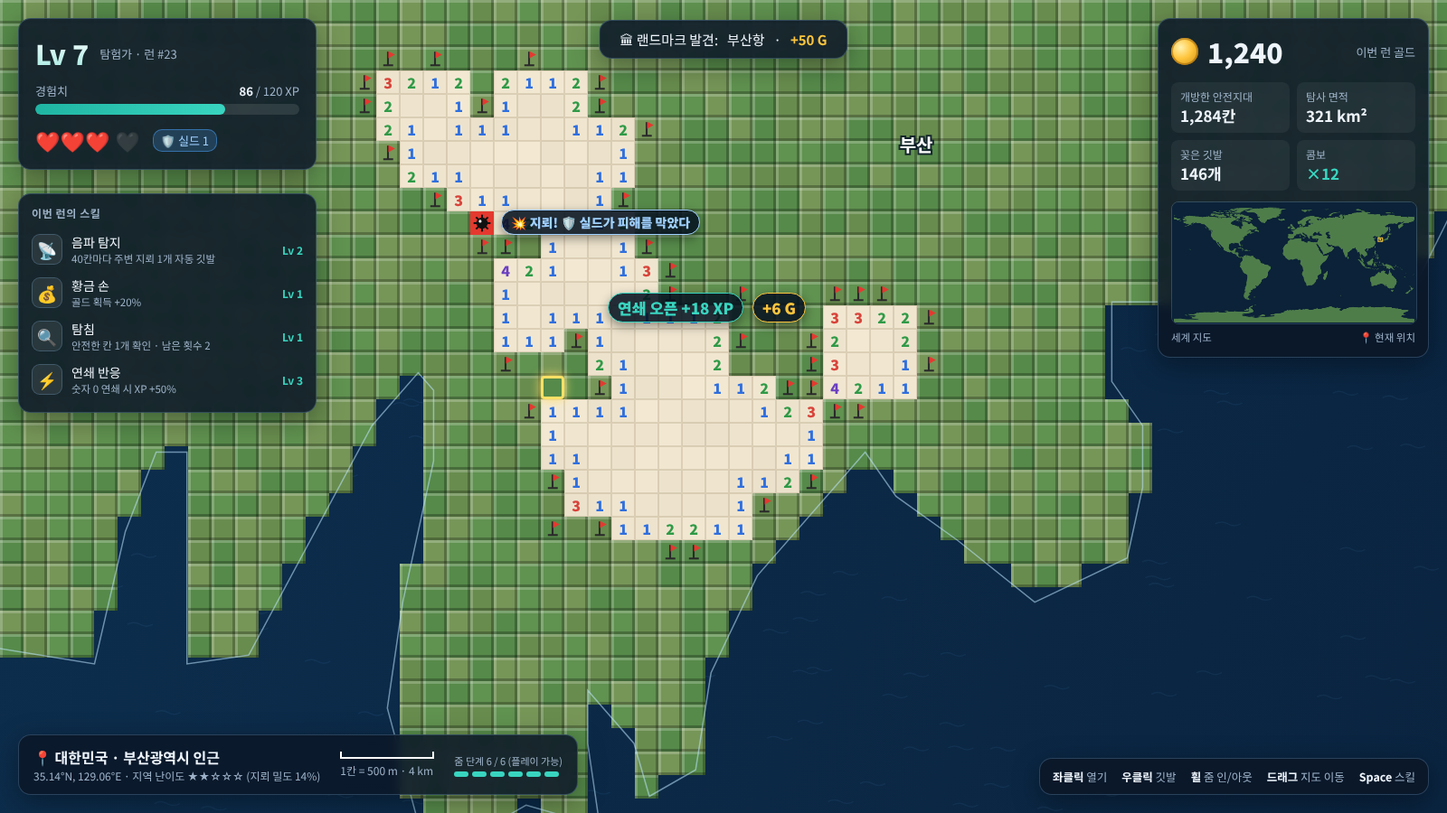
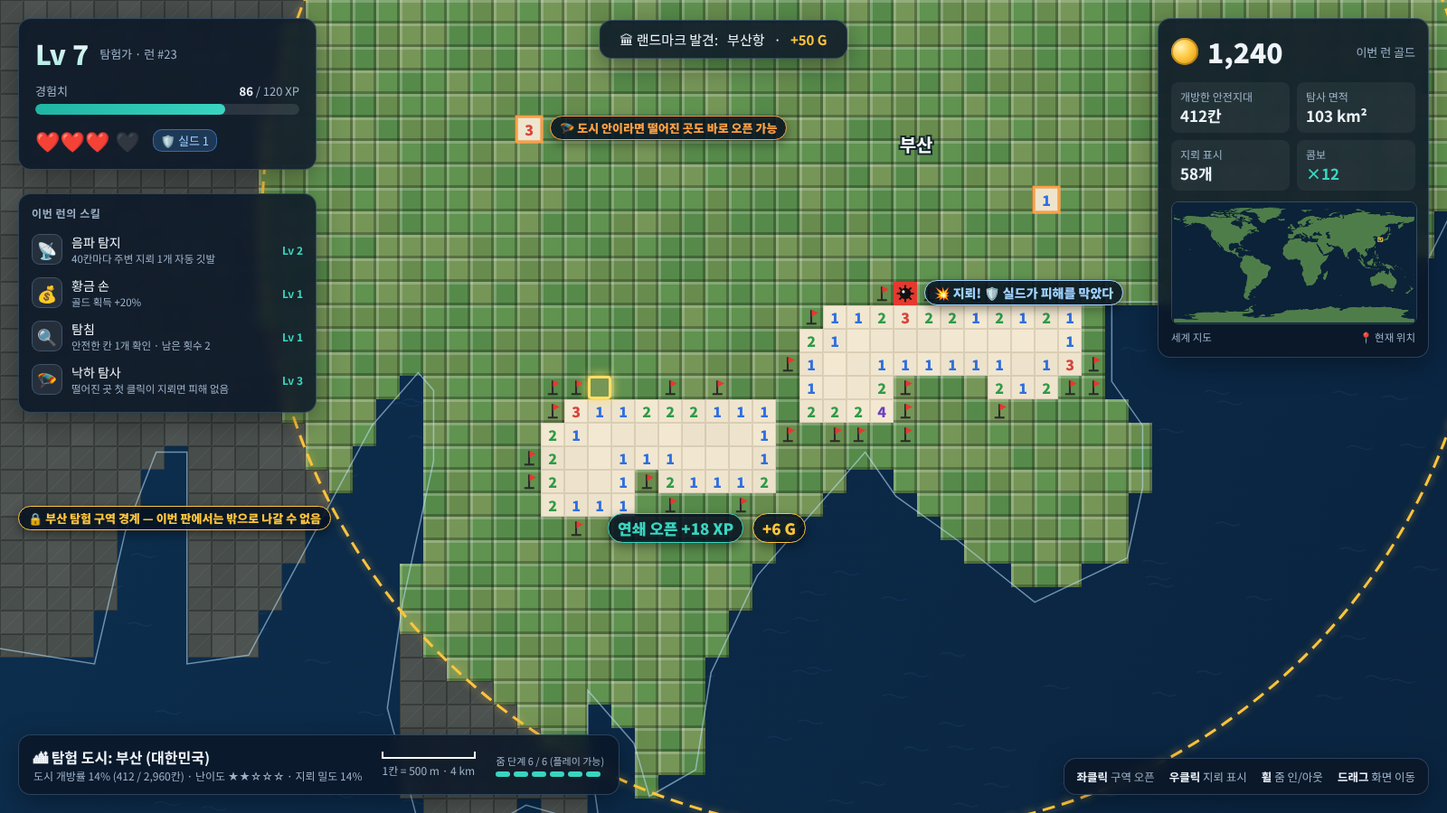
Update World Minesweeper plan to v2 with confirmed decisions
- City-locked runs: pick any city worldwide, play only inside its
  boundary, click anywhere within it (sea is no longer a barrier)
- Death keeps 50% gold; offline-only (no ranking/account server)
- Finalize PC (left open, right flag, wheel zoom, drag pan) and mobile
  (tap open, long-press flag, pinch zoom, swipe pan) controls
- Fix mines per city at first click; zone-based density replaces
  run-time danger escalation; add city conquest end condition
- Redraw mockups with city boundary, new control hints, city picker

Claude-Session: https://claude.ai/code/session_01Bgk4R3MHgPdhvjMk89ZM8V

diff --git a/minesweeper-world/PLAN.md b/minesweeper-world/PLAN.md
@@ -1,7 +1,17 @@
-# 월드 마인스위퍼 (가제) — 게임 기획안
+# 월드 마인스위퍼 (가제) — 게임 기획안 v2
 
-> 실제 세계지도를 500m 격자로 나눈 지뢰밭을 탐험하는 로그라이트 지뢰찾기 웹게임
-> PC(마우스) · 모바일(터치) 동시 지원
+> 실제 세계지도를 500m 격자로 나눈 지뢰밭에서, 내가 고른 도시 하나를 탐험하는 로그라이트 지뢰찾기 웹게임
+> PC(마우스) · 모바일(터치) 동시 지원 · 오프라인 전용
+
+### v2 확정 사항
+| # | 항목 | 결정 |
+|---|---|---|
+| 1 | 바다 | **건널 수 있음** — 도시 경계 안이라면 섬·건너편 해안도 바로 클릭 가능 |
+| 2 | 사망 시 골드 | **50% 보존** |
+| 3 | 서버 | **오프라인 전용** (랭킹·계정 서버 없음) |
+| 4 | 출발지 | **세계 어느 도시든 선택**. 한 번 시작하면 다른 도시로 넘어갈 수 없고, **같은 도시 안에서는 어디든 클릭 가능** |
+| 5 | PC 조작 | 왼쪽 클릭 = 구역 오픈, 오른쪽 클릭 = 지뢰 표시, 휠 = 줌 인/아웃, 드래그 = 화면 이동 |
+| 6 | 모바일 조작 | 짧게 탭 = 구역 오픈, 길게 누르기 = 지뢰 표시, 두 손가락 벌리기/좁히기 = 줌 인/아웃, 스와이프 = 화면 이동 |
 
 ---
 
@@ -10,19 +20,20 @@
 | 항목 | 내용 |
 |---|---|
 | 장르 | 지뢰찾기 + 로그라이트 (뱀파이어 서바이버류 성장 구조) |
-| 플랫폼 | 웹 브라우저 (PC / 모바일), PWA로 홈 화면 설치 가능 |
-| 맵 | 실제 세계지도. 육지 = 지뢰밭, 바다 = 이동 불가 지역 |
+| 플랫폼 | 웹 브라우저 (PC / 모바일), PWA로 홈 화면 설치 · 오프라인 실행 |
+| 맵 | 실제 세계지도. 육지 = 지뢰밭, 바다 = 열 수 없는 빈 공간 |
+| 플레이 범위 | 한 판(런) = **도시 하나**. 도시 경계 밖으로는 나갈 수 없음 |
 | 1칸 크기 | 약 500m × 500m (1칸 = 0.25km²) |
-| 한 판(런) 길이 | 15~30분 목표, 중간 저장 후 이어하기 가능 |
+| 한 판 길이 | 15~30분 목표, 자동 저장 후 이어하기 가능 |
 | 핵심 재미 | ① 지뢰찾기 추론 ② 레벨업마다 3지선다 스킬 빌드 ③ 골드로 영구 성장 ④ "우리 동네를 지도에서 직접 열어본다"는 탐험감 |
 
 ### 핵심 루프
 
 ```
-[상점/본부] → 출발 지역 선택 → [런 시작]
-   → 칸 열기 → 경험치(XP)·골드 획득 → 레벨업 → 스킬 3개 중 1개 선택 (이번 런 한정)
-   → 위험도 상승 (지뢰 밀도·특수 지뢰 증가)
-   → 귀환 성공 or HP 0 → [결과 정산] → 골드로 영구 업그레이드 → 다시 출발
+[본부/상점] → 세계지도에서 탐험할 도시 선택 → [런 시작]
+   → 도시 안 어디든 클릭해서 칸 열기 → 경험치(XP)·골드 획득
+   → 레벨업 → 스킬 3개 중 1개 선택 (이번 런 한정)
+   → 귀환 / 도시 정복 / HP 0 → [결과 정산] → 골드로 영구 업그레이드 → 다음 도시 선택
 ```
 
 ---
@@ -30,63 +41,86 @@
 ## 2. 맵 & 지뢰 규칙
 
 ### 2-1. 세계지도 격자
-- **실제 해안선 데이터**(Natural Earth / OpenStreetMap)를 500m 격자로 변환해 육지 칸만 플레이 영역으로 사용.
-- 격자는 웹 메르카토르 기반 정사각 격자. **기준 위도 35°(한국 부근)에서 정확히 500m**가 되도록 정의.
+- **실제 해안선 데이터**(Natural Earth 1:10m)를 500m 격자로 바꿔 육지 칸만 플레이 영역으로 사용.
+- 격자는 웹 메르카토르 기반 정사각 격자. **위도 35°(한국 부근)에서 정확히 500m**가 되도록 정의.
   - 적도 쪽은 칸이 약간 크고(≈610m), 북유럽 쪽은 작아짐(≈330m). "대략 500m" 감각을 유지하면서 구현이 가장 단순한 방식.
-- 육지 전체는 약 **6억~10억 칸** 규모(남극 제외) → 미리 만들지 않고 **화면에 보이는 청크만 그때그때 생성**.
 
-### 2-2. 지뢰 규칙
-- 기본 규칙은 고전 지뢰찾기와 동일: 숫자 = 주변 8칸의 지뢰 수, 0이면 주변 자동 연쇄 오픈.
-- 바다 칸은 지뢰 없음 & 열 수 없음 (숫자 계산 시 0으로 취급). 해안선이 자연스러운 맵 경계가 됨.
-- 지뢰 배치는 `(시드, x, y)` 해시로 결정 → 같은 시드면 전 세계 어디서나 같은 지뢰 배치 (일일 도전/랭킹에 활용).
-- **첫 클릭 안전**: 출발 지점 주변 3×3(영구 업그레이드로 5×5까지)은 지뢰 없음 보장.
-- 섬 이동: 바다를 건너려면 **항구·다리 랜드마크**를 열거나 스킬 "다리 건설"이 필요.
+### 2-2. 탐험 도시 규칙 ★
+- **도시 선택**: 시작 화면의 세계지도에서 고르거나 이름으로 검색 (예: 서울, Tokyo, Paris). 인구 1.5만 명 이상 도시 약 2.6만 곳을 내장.
+- **도시 경계**:
+  - MVP: 도시 중심에서 일정 반경(인구 규모별 8~20km) 안의 육지.
+  - 이후: 실제 행정구역 경계(예: 부산광역시 경계)로 교체.
+- **이동 제한**: 한 번 출발하면 그 도시에 고정. 경계 밖 칸은 회색으로 잠겨 있고 클릭할 수 없음.
+- **자유 클릭**: 경계 안이라면 이미 연 영역과 붙어 있지 않은 칸도 **어디든 바로 열 수 있음**.
+  - 단, 아무 정보 없이 떨어진 곳을 여는 것은 "찍기"라 지뢰 밀도만큼 위험 → 스킬 "🪂 낙하 탐사"로 보완.
+- **바다 건너기**: 바다 칸은 열 수 없는 빈 공간일 뿐 장벽이 아님. 경계 안의 섬(예: 부산 가덕도, 영도)이나 만 건너편 해안도 바로 클릭할 수 있음. 항구·다리 같은 별도 이동 수단은 필요 없음.
+- **도시 규모 예시**: 부산(반경 13km)은 육지 약 2,960칸. 큰 도시일수록 칸이 많아 오래 플레이할 수 있고, 클리어 보상도 큼.
 
-### 2-3. 지역 난이도
-- 지역마다 기본 지뢰 밀도가 다름 (예: 해안 도시 12~14%, 사막 18%, 험준한 산악 20%).
-- MVP는 노이즈 기반으로 난이도를 배정하고, 이후 실제 지형/토지피복 데이터로 교체.
+### 2-3. 지뢰 규칙
+- 기본 규칙은 고전 지뢰찾기와 같음. 숫자는 주변 8칸의 지뢰 수이고, 0이면 주변이 자동으로 연쇄 오픈됨.
+- 바다 칸과 경계 밖 칸에는 지뢰가 없고, 숫자 계산에서 0으로 취급.
+- **배치 시점**: 런의 첫 클릭 직후 도시 전체에 한 번에 배치. 시드 기반이라 같은 시드면 같은 배치.
+- **첫 클릭 안전**: 첫 클릭 지점 주변 3×3은 지뢰 없음 보장 (영구 업그레이드로 5×5까지).
 
-### 2-4. 런 진행에 따른 위험도 상승
-열린 칸 수에 따라 단계적으로 어려워져 런이 무한히 늘어지지 않게 함.
+### 2-4. 구역 난이도
+도시 안에서도 구역마다 지뢰 밀도가 다르다. 판이 고정되어 있으므로 밀도는 처음 배치할 때 정해진다.
 
-| 위험 단계 | 조건(개방 칸) | 변화 |
-|---|---|---|
-| 1 | 0~800 | 기본 밀도 |
-| 2 | 800~2,000 | 밀도 +2%p |
-| 3 | 2,000~3,500 | 밀도 +4%p, **대전차 지뢰**(밟으면 HP -2) 등장 |
-| 4 | 3,500+ | 밀도 +6%p, **재머 지뢰**(주변 숫자를 `?`로 가림) 등장 |
+| 구역 | 판정 기준 (MVP) | 지뢰 밀도 | 특수 지뢰 |
+|---|---|---|---|
+| 도심 | 도시 중심에서 반경 30% 이내 | 12% | — |
+| 시가지 | 30~70% | 15% | 대전차 지뢰 소수 |
+| 외곽 | 70% 이상 | 18% | 대전차 지뢰, 재머 지뢰 |
+
+- 도시 전체 기본 난이도(★1~5)를 이 표에 더한다. 예: 사막·산악 도시는 +2~4%p.
+- 대전차 지뢰는 밟으면 HP -2.
+- 재머 지뢰는 주변 숫자를 `?`로 가린다.
 
 ### 2-5. 특수 칸
 | 칸 | 효과 |
 |---|---|
 | 💰 보물 상자 | 열면 골드 대량 획득 |
 | 🏛 랜드마크 | 실제 지명(예: 부산항, 광안대교). 첫 발견 시 골드·XP 보너스 |
-| ✈ 귀환 포인트 | 공항·항구 랜드마크. 여기서 **귀환**하면 런 종료 + 골드 100% 보존 |
+| ✈ 귀환 포인트 | 공항·항구·기차역 칸. 이 칸이 열려 있으면 언제든 **귀환** 가능 |
 | ❤ 구급 상자 | HP 1 회복 (드물게 등장) |
 
 ---
 
-## 3. 조작 (PC / 모바일)
+## 3. 조작
 
-| 동작 | PC | 모바일 |
+### 3-1. PC (마우스)
+| 동작 | 입력 |
+|---|---|
+| 구역 오픈 | **왼쪽 클릭** |
+| 지뢰 표시 / 해제 | **오른쪽 클릭** (깃발 토글, 브라우저 우클릭 메뉴는 막음) |
+| 줌 인 / 줌 아웃 | **마우스 휠** (커서 위치 기준으로 확대·축소) |
+| 화면 이동 | **드래그** |
+| 스킬 사용 | 화면의 스킬 버튼 클릭 |
+| 보조: 주변 일괄 오픈 | 열린 숫자 칸을 왼쪽 클릭하면, 주변 지뢰 표시 수가 숫자와 같을 때 나머지 주변 칸을 한 번에 오픈 (설정에서 끌 수 있음) |
+
+- 클릭과 드래그 구분: 버튼을 누른 채 5px 이상 움직이면 드래그로 보고, 놓아도 칸을 열지 않음.
+
+### 3-2. 모바일 (터치)
+| 동작 | 입력 |
+|---|---|
+| 구역 오픈 | **짧게 탭** |
+| 지뢰 표시 / 해제 | **길게 누르기** (약 0.4초, 진동 피드백) |
+| 줌 인 / 줌 아웃 | **두 손가락 벌리기 / 좁히기** (핀치) |
+| 화면 이동 | **한 손가락 스와이프** |
+| 스킬 사용 | 하단 스킬 버튼 탭 |
+
+- 오조작 방지 규칙:
+  - 손가락이 10px 이상 움직이면 스와이프로 판정하고 칸을 열지 않음.
+  - 두 번째 손가락이 닿는 순간 진행 중이던 탭·길게 누르기를 취소.
+  - 칸이 너무 작게 보이는 배율(28px 미만)에서 탭하면 칸을 열지 않고 그 지점으로 확대.
+
+### 3-3. 줌 단계
+도시에 고정되므로 세계·국가 단위 줌은 도시 선택 화면에서만 쓴다.
+
+| 단계 | 칸 크기 | 표시 |
 |---|---|---|
-| 칸 열기 | 좌클릭 | 탭 (열기 모드) |
-| 깃발 | 우클릭 | 롱프레스(진동 피드백) 또는 하단 "깃발 모드" 토글 후 탭 |
-| 주변 일괄 열기(코드) | 숫자 칸 좌클릭 / 휠 클릭 | 숫자 칸 더블탭 |
-| 줌 인/아웃 | **마우스 휠** (커서 위치 기준) | 핀치 줌 |
-| 지도 이동 | 드래그, WASD/방향키 | 한 손가락 드래그 |
-| 액티브 스킬 | 1~4 / Space | 하단 스킬 버튼 |
-
-### 줌 단계 (LOD)
-| 단계 | 화면 범위 | 표시 |
-|---|---|---|
-| 1 세계 | 전 세계 | 대륙, 내 탐사 흔적(히트맵) |
-| 2 국가 | ~2,000km | 국경, 출발 가능 지역 |
-| 3 지역 | ~200km | 열린 영역이 색 덩어리로 표시 |
-| 4 도시 | ~50km | 칸 경계 표시, 숫자 숨김 |
-| 5~6 플레이 | ~10~30km | 숫자·깃발 표시, **이 단계에서만 칸 조작 가능** |
-
-- 모바일은 오조작 방지를 위해 플레이 단계에서 칸이 최소 28px 이상일 때만 입력 허용.
+| 1 도시 전체 | 1~4px | 도시 경계 전체, 열린 영역 색 표시, 랜드마크 아이콘 |
+| 2 구역 | 5~19px | 칸 경계 표시, 숫자 숨김 |
+| 3~4 플레이 | 20px 이상 (모바일 28px 이상) | 숫자·지뢰 표시, **이 단계에서 칸 조작**. 화면 폭은 PC 약 30km, 모바일 약 7km |
 
 ---
 
@@ -97,42 +131,43 @@
 |---|---|
 | 직접 클릭으로 연 안전 칸 | 2 |
 | 연쇄(0)로 자동으로 열린 칸 | 0.5 |
-| 지뢰 위 깃발이 정답으로 확정됨 | 1 |
+| 지뢰 표시가 정답으로 확정됨 | 1 |
 | 랜드마크 발견 | 20 |
 
-- 필요 XP: `30 + 15 × (현재 레벨 − 1)` → Lv1→2: 30, Lv7→8: 120, Lv14→15: 225
-- 대략 **안전지대 20~60칸마다 1레벨** 체감, 한 런에서 Lv 12~18 도달 목표.
+- 필요 XP는 `30 + 15 × (현재 레벨 − 1)`. Lv1→2는 30, Lv7→8은 120, Lv14→15는 225.
+- 대략 **안전지대 20~60칸마다 1레벨** 체감. 한 런에서 Lv 12~18 도달이 목표.
 
 ### 4-2. 레벨업 화면
 - 게임이 일시정지되고 **카드 3장 중 1장 선택**.
 - 카드 등급: 일반(회색) / 레어(파랑) / 에픽(보라) / 전설(금색).
-- **다시 뽑기**(기본 1회, 영구 업그레이드로 증가), **건너뛰기**(골드 소량 획득).
-- 스킬은 최대 5레벨. 한 런에서 보유 가능한 스킬은 최대 6개.
+- **다시 뽑기**는 기본 1회이고 영구 업그레이드로 늘어남. **건너뛰기**를 하면 골드를 조금 받음.
+- 스킬은 최대 5레벨. 한 런에서 최대 6개까지 보유.
 
 ### 4-3. 스킬 목록 (초안)
 | 분류 | 스킬 | 효과 (Lv1 → Max) |
 |---|---|---|
-| 탐지 | 📡 음파 탐지 | 안전 칸 40칸 → 20칸 열 때마다 근처 지뢰 1개 자동 깃발 |
-| 탐지 | 🔍 탐침 | 선택한 칸이 안전한지 확인 (사용 횟수 2 → 6, 레벨업 시 충전) |
-| 탐지 | 🧲 금속 탐지기 | 커서 주변 3×3의 지뢰 수 표시 (액티브, 쿨다운) |
+| 탐지 | 📡 음파 탐지 | 안전 칸을 40칸 → 20칸 열 때마다 근처 지뢰 1개에 자동으로 지뢰 표시 |
+| 탐지 | 🔍 탐침 | 고른 칸이 안전한지 확인 (사용 횟수 2 → 6, 레벨업 시 충전) |
+| 탐지 | 🧲 금속 탐지기 | 지정한 지점 주변 3×3의 지뢰 수 표시 (쿨다운 있음) |
 | 탐지 | 🛰 항공 사진 | 반경 10칸의 지뢰 밀도를 히트맵으로 표시 |
-| 탐지 | 🚁 정찰 드론 | 100칸마다 미개방 지역의 안전 칸 1~3개 자동 오픈 |
+| 탐지 | 🚁 정찰 드론 | 100칸마다 아직 안 연 지역의 안전 칸 1~3개 자동 오픈 |
 | 생존 | 🛡 방탄 조끼 | 실드 +1 (지뢰 피해 1회 무효), 150칸마다 재충전 |
 | 생존 | ❤ 강철 체력 | 최대 HP +1, 즉시 1 회복 |
 | 생존 | 🩹 응급 처치 | 레벨업 시 HP 회복 확률 20% → 60% |
 | 생존 | 🧯 불발탄 | 지뢰를 밟아도 10% → 30% 확률로 불발 |
+| 생존 | 🪂 **낙하 탐사** | 열린 영역과 떨어진 칸을 처음 열 때 지뢰면 피해 없이 지뢰 표시로 바뀜 (쿨다운 100칸 → 40칸) |
 | 경제 | 💰 황금 손 | 골드 획득 +20% → +80% |
-| 경제 | 🗝 보물 사냥꾼 | 화면 안 보물 상자 방향 표시, 상자 골드 +50% |
-| 경제 | 🔧 지뢰 해체반 | 정답 깃발 1개당 골드 +1 → +3 |
+| 경제 | 🗝 보물 사냥꾼 | 보물 상자 방향 표시, 상자 골드 +50% |
+| 경제 | 🔧 지뢰 해체반 | 정답 지뢰 표시 1개당 골드 +1 → +3 |
 | 성장 | 📘 빠른 학습 | XP +15% → +60% |
 | 성장 | ⚡ 연쇄 반응 | 연쇄 오픈 칸 XP 0.5 → 1.5 |
 | 성장 | 🍀 행운 | 레어 이상 카드 등장 확률 증가 |
-| 이동 | 🌉 다리 건설 | 바다 1~3칸 너머의 육지로 진입 가능 |
 
-**진화 (뱀서식 조합)** — 두 스킬을 모두 Max로 만들면 레벨업 카드에 진화형이 등장
-- 음파 탐지 + 항공 사진 → **🌍 위성 스캔**: 300칸마다 화면 안 지뢰의 30%를 공개
-- 방탄 조끼 + 불발탄 → **🦾 폭발물 처리 슈트**: 실드가 있는 동안 지뢰를 밟으면 해체 처리 + 골드 획득
-- 황금 손 + 보물 사냥꾼 → **👑 미다스**: 숫자 0 칸에서 동전이 나옴
+**진화 (뱀서식 조합)** — 두 스킬을 모두 최대 레벨로 만들면 레벨업 카드에 진화형이 등장한다.
+- 음파 탐지 + 항공 사진 → **🌍 위성 스캔**: 300칸마다 화면 안 지뢰의 30% 공개
+- 방탄 조끼 + 불발탄 → **🦾 폭발물 처리 슈트**: 실드가 있을 때 지뢰를 밟으면 해체 처리 + 골드 획득
+- 낙하 탐사 + 정찰 드론 → **🪖 공수 부대**: 떨어진 곳 첫 오픈 시 주변 3×3 중 안전 칸 자동 오픈
+- 황금 손 + 보물 사냥꾼 → **👑 미다스**: 숫자 0 칸에서 동전 등장
 
 ---
 
@@ -144,21 +179,22 @@
 | 안전 칸 오픈 | 칸당 확률적으로 1~3G |
 | 보물 상자 | 30~150G |
 | 랜드마크 첫 발견 | 50G |
-| 깃발 정확도 보너스 (런 종료 시) | 정확도 90% 이상이면 정답 깃발 수 × 0.5G |
-| 새 국가 첫 진입 | 500G (계정당 1회) |
-| 일일 도전 순위 보상 | 순위별 |
+| 지뢰 표시 정확도 보너스 (런 종료 시) | 정확도 90% 이상이면 정답 표시 수 × 0.5G |
+| 새 국가 첫 탐험 | 500G (나라별 1회) |
+| 오늘의 도시 최고 기록 갱신 | 200G |
 
 ### 5-2. 런 종료 조건
 | 종료 방식 | 조건 | 골드 보존율 |
 |---|---|---|
-| ✈ **귀환** | 귀환 포인트(공항·항구)에서 귀환 선택 | **100%** |
-| 💀 **사망** | HP 0 | 50% (영구 업그레이드 "보험"으로 최대 75%) |
+| ✈ **귀환** | 열려 있는 귀환 포인트에서 "귀환" 선택 | **100%** |
+| 🏆 **도시 정복** | 도시의 안전 칸을 모두 오픈 | **100% + 정복 보너스(도시 칸 수 × 0.3G)** |
+| 💀 **사망** | HP 0 | **50%** (영구 업그레이드 "보험"으로 최대 75%) |
 
-→ "더 깊이 들어가서 더 벌 것인가, 지금 귀환할 것인가"의 리스크/리워드 판단이 생김.
+→ "더 열어서 더 벌 것인가, 지금 귀환할 것인가"를 고민하게 만든다.
 
 ### 5-3. HP
-- 기본 HP 3. 지뢰를 밟으면 HP -1(대전차 지뢰는 -2), 실드가 있으면 실드가 먼저 소모.
-- 밟은 지뢰는 공개되고 자동으로 깃발 처리되어 게임은 계속 진행.
+- 기본 HP는 3. 지뢰를 밟으면 HP -1(대전차 지뢰는 -2)이고, 실드가 있으면 실드가 먼저 깎인다.
+- 밟은 지뢰는 공개되면서 자동으로 지뢰 표시가 되고, 게임은 그대로 계속된다.
 
 ---
 
@@ -171,21 +207,21 @@
 | 🛡 시작 실드 | 런 시작 시 실드 +1 | 3 | 900 → |
 | 💰 골드 감각 | 골드 획득 +10% | 10 | 250 → (×1.5씩 증가) |
 | 📘 빠른 학습 | XP +8% | 10 | 300 → |
-| 🎲 행운의 주사위 | 레벨업 리롤 +1 | 3 | 1,500 → |
+| 🎲 행운의 주사위 | 레벨업 다시 뽑기 +1 | 3 | 1,500 → |
 | 🎯 안전한 첫 발 | 첫 클릭 안전 범위 3×3 → 5×5 | 2 | 800 → |
 | 🔍 탐침 키트 | 시작 시 탐침 +1 | 4 | 1,100 → |
-| 🧳 보험 가입 | 사망 시 골드 보존 +5%p | 5 | 2,000 → |
+| 🧳 보험 가입 | 사망 시 골드 보존 +5%p (50% → 75%) | 5 | 2,000 → |
 
 ### 6-2. 해금
-- **스킬 해금**: 새 스킬을 레벨업 카드 풀에 추가 (처음엔 기본 8개만 등장).
+- **스킬 해금**: 새 스킬을 레벨업 카드 풀에 추가 (처음에는 기본 8개만 등장).
 - **4지선다**: 레벨업 카드 3장 → 4장 (고가, 탐험가 랭크 조건).
-- **출발 지역**: 부산(기본) → 도쿄 · 파리 · 카이로 · 뉴욕 … 지역마다 난이도·보상 배율·랜드마크가 다름.
-- (선택) 꾸미기: 깃발 디자인, 칸 스킨, 폭발 이펙트.
+- (선택) 꾸미기: 지뢰 표시 깃발 디자인, 칸 스킨, 폭발 이펙트.
+- 도시는 처음부터 전부 열려 있음 (해금 대상 아님).
 
-### 6-3. 메타 진행
-- **탐험가 랭크**: 누적 탐사 면적(km²)으로 상승, 상점 상위 항목 해금 조건.
-- **세계 탐사 도감**: 방문한 국가/랜드마크 수집 (예: 국가 3 / 195).
-- **일일 도전**: 전 세계 동일 시드·동일 지역에서 점수 경쟁.
+### 6-3. 메타 진행 (모두 기기 안에 저장)
+- **탐험가 랭크**: 누적 탐사 면적(km²)으로 오름. 상점 상위 항목의 해금 조건.
+- **세계 탐사 도감**: 탐험한 도시·국가·랜드마크 수집. 도시별 최고 개방률 기록.
+- **오늘의 도시**: 날짜로 정해지는 도시와 지뢰 배치. 서버 없이 내 최고 기록과 경쟁.
 
 ---
 
@@ -194,46 +230,47 @@
 | 화면 | 주요 요소 |
 |---|---|
 | 타이틀/본부 | 세계지도 배경, 시작 / 상점 / 도감 / 설정 |
-| 출발 지역 선택 | 세계지도에서 지역 선택, 난이도·보상 표시 |
-| 게임 플레이 | 지도 + 격자, 레벨·XP바, HP·실드, 골드, 보유 스킬, 미니맵, 현재 위치·축척, 줌 단계 |
-| 레벨업 | 카드 3장, 리롤, 건너뛰기 |
-| 결과 정산 | 탐사 경로 지도, 개방 칸·면적, 깃발 정확도, 골드 내역 |
-| 상점 | 탭(능력치/시작 장비/스킬 해금/출발 지역), 보유 골드 |
+| 도시 선택 | 세계지도 + 도시 검색, 도시 정보(면적·칸 수·난이도·내 최고 개방률) |
+| 게임 플레이 | 지도·격자·도시 경계선, 레벨·XP 바, HP·실드, 골드, 보유 스킬, 미니맵, 도시 개방률, 축척 |
+| 레벨업 | 카드 3장, 다시 뽑기, 건너뛰기 |
+| 결과 정산 | 탐사 지도, 개방 칸·면적·도시 개방률, 지뢰 표시 정확도, 골드 내역 |
+| 상점 | 탭(능력치 / 시작 장비 / 스킬 해금), 보유 골드, 다음 탐험 도시 |
 
 ### 게임 장면 예시
 
-**① PC 게임 플레이 화면 (부산 인근, 실제 해안선 데이터 기반)**
+**① PC 게임 플레이 — 부산 탐험 구역 (노란 점선 = 도시 경계, 밖의 회색 지역은 진입 불가, 주황 테두리 = 떨어진 곳을 바로 연 칸)**
 ![PC 게임 플레이](mockups/01-gameplay-pc.png)
 
-**② 모바일 레벨업 — 스킬 3지선다**
+**② 모바일 레벨업 — 스킬 3지선다 (하단: 터치 조작 안내)**
 ![모바일 레벨업](mockups/02-levelup-mobile.png)
 
-**③ 런 결과 정산 + 영구 업그레이드 상점**
+**③ 런 결과 정산 + 영구 업그레이드 상점 + 다음 탐험 도시 선택**
 ![결과 & 상점](mockups/03-result-shop-pc.png)
 
-> 위 이미지는 Natural Earth 1:10m 해안선 데이터를 실제로 500m 격자로 변환해 그린 컨셉 목업입니다. 수치·문구는 예시입니다.
+> 위 이미지는 Natural Earth 1:10m 해안선 데이터를 실제로 500m 격자로 바꿔 그린 컨셉 목업이다. 수치와 문구는 예시.
 
 ---
 
-## 8. 기술 설계 (요약)
+## 8. 기술 설계 (요약) — 오프라인 전용
 
 | 영역 | 방식 |
 |---|---|
-| 클라이언트 | TypeScript + Vite, 렌더링은 **PixiJS(WebGL)** — 수천 칸을 60fps로 그리기 위함 |
-| 입력 | Pointer Events로 마우스/터치 통합, 휠·핀치 줌은 커서/손가락 위치 기준 |
-| 지도 데이터 | 해안선 데이터를 **사전 처리**해 256×256칸 단위 육지 마스크 타일(1bit)로 저장 → 정적 CDN에서 필요한 타일만 로드. 전부 바다/전부 육지인 타일은 파일 없이 플래그만 |
-| 지뢰 생성 | 시드 해시 함수로 칸별 지뢰 여부를 즉석 계산 (저장 불필요) |
-| 연쇄 오픈 | 너비 우선 탐색을 프레임당 최대 N칸씩 나눠 처리 → 큰 0 영역에서도 멈춤 없이 퍼지는 연출 |
-| 상태 저장 | 열린 칸·깃발 = 청크(64×64)별 비트셋 → IndexedDB에 자동 저장 (런 이어하기). 골드·업그레이드 = 로컬 저장, 이후 계정 서버 동기화 |
-| 서버(후순위) | 일일 도전 랭킹, 계정 동기화, 부정 방지(시드 + 클릭 로그 검증) |
+| 클라이언트 | TypeScript + Vite, 렌더링은 **PixiJS(WebGL)** — 수천 칸을 60fps로 그리기 위해 |
+| 배포 | 정적 파일만 사용. 서비스 워커로 전체 캐시 → **첫 접속 후 인터넷 없이 실행** (PWA) |
+| 입력 | Pointer Events로 마우스와 터치를 함께 처리. 3장의 판정 규칙(드래그 5px, 스와이프 10px, 길게 누르기 0.4초, 핀치 시 탭 취소)을 한곳에서 구현 |
+| 지도 데이터 | 1:10m 육지 데이터(수 MB)와 도시 목록(약 2.6만 곳, 한/영 이름)을 내장. 도시를 고르면 그 도시 영역만 즉석에서 500m 격자로 변환 |
+| 지뢰 생성 | 첫 클릭 후 시드 기반으로 도시 전체에 배치 (도시당 최대 수만 칸 → 메모리 부담 없음) |
+| 연쇄 오픈 | 너비 우선 탐색을 프레임마다 최대 N칸씩 나눠 처리 → 큰 0 영역에서도 멈추지 않고 퍼지는 연출 |
+| 저장 | 진행 중인 런(열린 칸·지뢰 표시 비트셋, 시드, 스킬)과 골드·업그레이드·도감 → IndexedDB 자동 저장. 기기 변경 대비 **저장 코드 내보내기/가져오기** 제공 |
 
 ---
 
 ## 9. 밸런스 & 리스크 메모
-- **무한 맵의 '찍기' 문제**: 무작위 배치 특성상 추론만으로 풀 수 없는 상황이 생김 → HP·실드·탐침으로 완화하고, 추론 불가 상황 감지 시 무료 탐침 1회 지급 옵션 고려.
-- **연쇄 오픈 폭주**: 넓은 0 영역이 한 번에 수천 칸 열리면 XP 과다 → 연쇄 칸 XP를 낮게(0.5) 책정.
-- **해안선 해상도**: 1:10m 데이터는 500m 격자 대비 다소 거칠음 → 알파부터 OSM 해안선(고해상도)으로 교체 검토.
-- **모바일 성능**: 화면 밖 청크는 언로드, 저배율에서는 칸 대신 텍스처 1장으로 그림.
+- **자유 클릭과 찍기**: 떨어진 곳을 여는 건 순수한 확률 게임 → 지뢰 밀도가 곧 위험도. 낙하 탐사, 탐침, HP로 부담을 조절.
+- **연쇄 오픈 폭주**: 넓은 0 영역이 한 번에 수천 칸 열리면 XP가 과해짐 → 연쇄로 열린 칸 XP를 낮게(0.5) 책정.
+- **도시 크기 편차**: 작은 도시는 금방 정복됨 → 칸 수에 비례한 정복 보너스. 너무 작은 도시(500칸 미만)는 반경을 넓혀 최소 크기 보장.
+- **해안선 해상도**: 1:10m 데이터는 500m 격자 대비 다소 거칠다 → 이후 지역별 고해상도 데이터 팩(선택 다운로드)을 검토.
+- **모바일 성능**: 화면 밖 칸은 그리지 않고, 저배율에서는 칸 대신 텍스처 1장으로 그림.
 
 ---
 
@@ -241,14 +278,6 @@
 
 | 단계 | 범위 |
 |---|---|
-| **MVP** | 한 지역(부산 인근) 고정 맵, 기본 규칙, HP, XP/레벨업, 스킬 8종, 골드, 상점 6종, PC+모바일 조작 |
-| **알파** | 세계 전체 타일 스트리밍, 줌 6단계, 출발 지역 5곳, 랜드마크·귀환 포인트, 스킬 16종 + 진화 |
-| **베타** | 일일 도전·랭킹, 계정 동기화, 도감·업적, 사운드·이펙트 다듬기 |
-
----
-
-## 11. 결정이 필요한 사항
-1. 바다를 완전히 막을지, 스킬/항구로 건너갈 수 있게 할지 (현재안: 항구·다리·스킬로 제한적 이동)
-2. 사망 시 골드 50% 보존이 적당한지 (더 하드코어하게 0%도 가능)
-3. 서버 없이 완전 오프라인 게임으로 시작할지, 처음부터 랭킹을 넣을지
-4. 출발 지역을 정해진 도시로 제한할지, 세계 어디서나 시작 가능하게 할지
+| **MVP** | 도시 1곳(부산) 고정, 기본 규칙, 자유 클릭, PC·모바일 조작 전부, HP, XP/레벨업, 스킬 8종, 골드, 상점 6종, 자동 저장 |
+| **알파** | 전 세계 도시 선택(검색 + 지도), 구역 난이도·특수 지뢰, 랜드마크·귀환 포인트, 스킬 16종 + 진화, 도시 정복 |
+| **베타** | 오늘의 도시, 도감·업적, 실제 행정구역 경계, 저장 코드, 사운드·이펙트 다듬기 |
